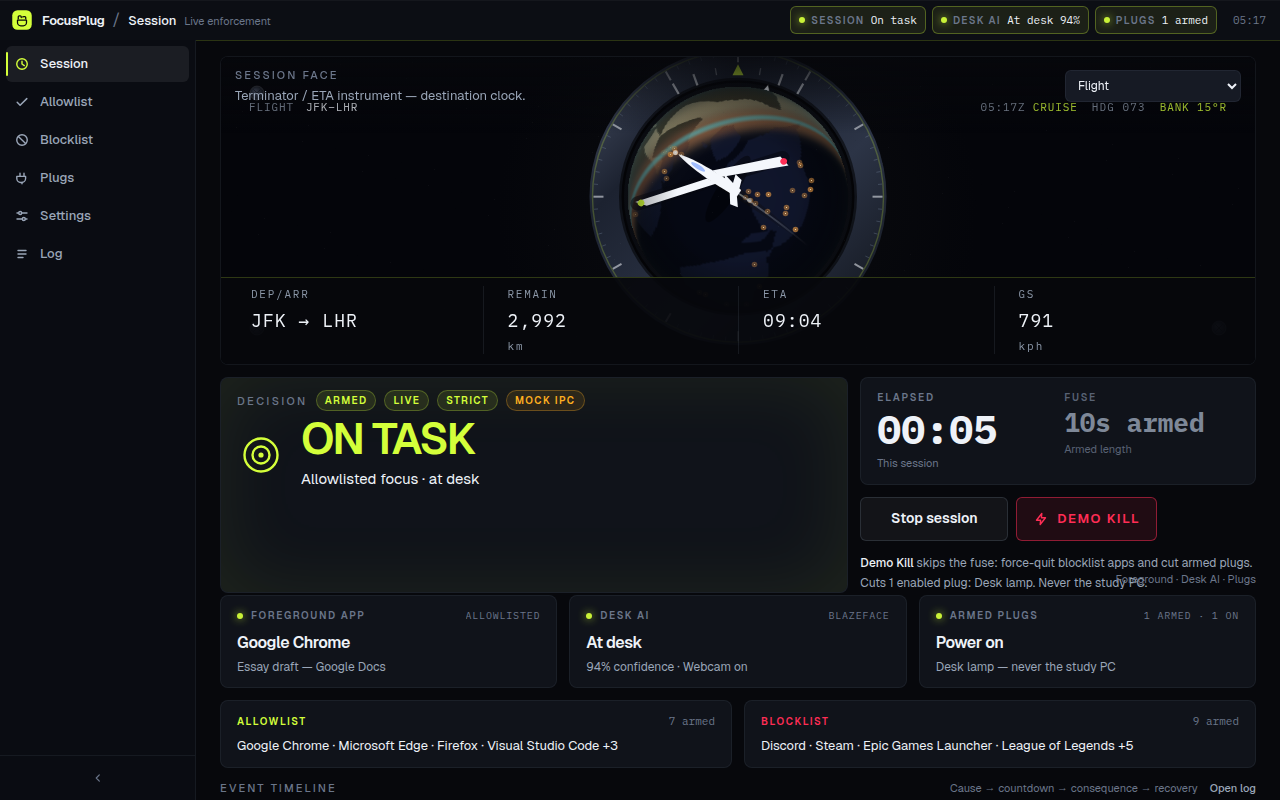
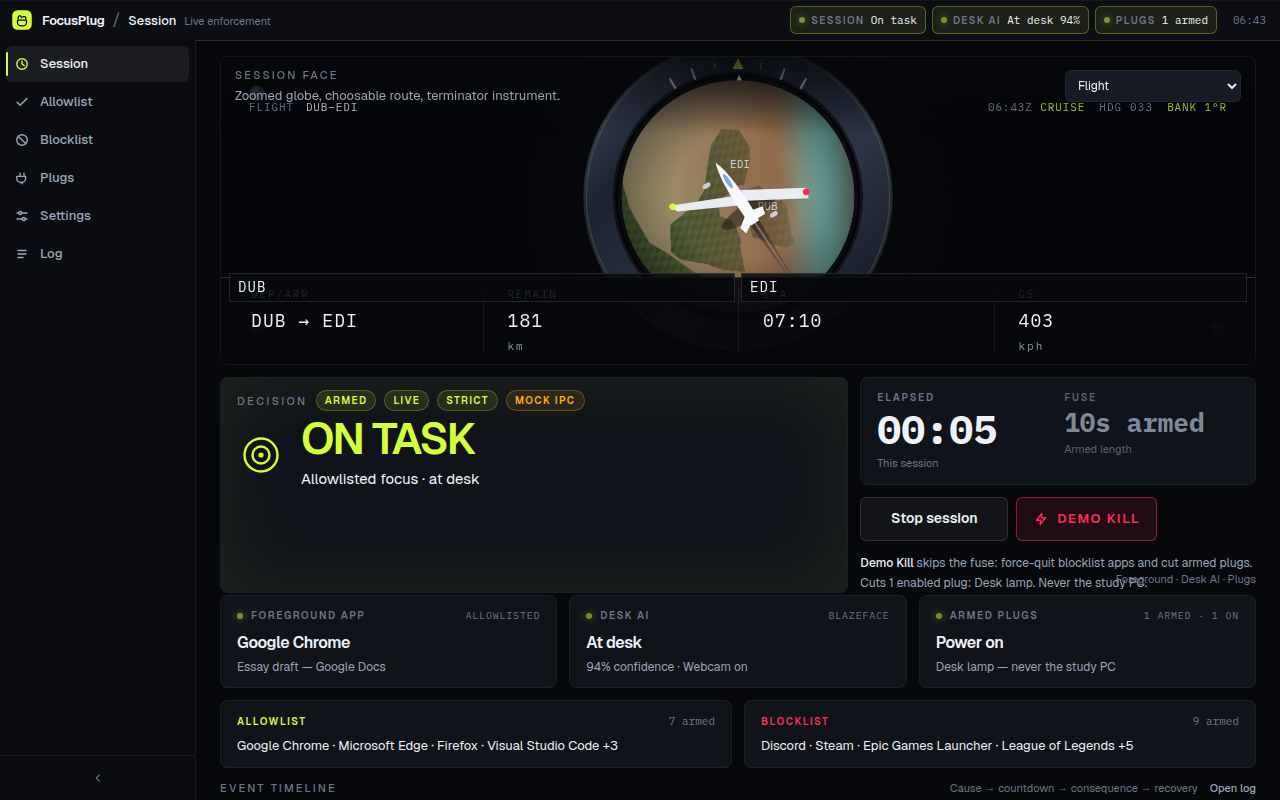
faces: keep Flight orbit basis and split British Isles
Roll the camera around the look axis instead of rebuilding right/up from world-up, so a sit actually rotates the hop. Ireland and Britain are separate rings so the Irish Sea stays water.

diff --git a/src/renderer/src/features/faces/flight/draw.ts b/src/renderer/src/features/faces/flight/draw.ts
@@ -269,16 +269,16 @@ function drawAircraft(
   if (!here.visible) return;
   const heading = screenHeading(model, cx, cy, radius);
   const pitch = degToRad(phasePitchDeg(model.phase));
-  const wings = wingAttitude(model.bank, 30);
-  const s = (model.phase === "climb" ? 1.28 : model.phase === "descent" ? 0.92 : 1) * 2.15;
+  const wings = wingAttitude(model.bank, 34);
+  const s = (model.phase === "climb" ? 1.22 : model.phase === "descent" ? 0.94 : 1) * 1.85;
 
   ctx.save();
-  ctx.translate(here.x + 9 + wings.drop * 0.15, here.y + 11);
+  ctx.translate(here.x + 8 + wings.drop * 0.12, here.y + 10);
   ctx.rotate(heading);
-  ctx.scale(s, s * 0.72);
-  ctx.fillStyle = "rgba(0,0,0,0.42)";
+  ctx.scale(s, s * 0.78);
+  ctx.fillStyle = "rgba(0,0,0,0.4)";
   ctx.beginPath();
-  ctx.ellipse(0, 2, 20, 7, 0, 0, Math.PI * 2);
+  ctx.ellipse(0, 3, 18, 6, 0, 0, Math.PI * 2);
   ctx.fill();
   ctx.restore();
 
@@ -288,70 +288,71 @@ function drawAircraft(
   ctx.rotate(pitch);
   ctx.scale(s, s);
 
-  ctx.strokeStyle = "rgba(6, 8, 14, 0.55)";
-  ctx.lineWidth = 7.2;
-  ctx.lineCap = "round";
+  ctx.fillStyle = "#e8edf4";
   ctx.beginPath();
   ctx.moveTo(-wings.leftSpan, wings.leftY);
-  ctx.lineTo(wings.rightSpan, wings.rightY);
-  ctx.stroke();
-
-  ctx.fillStyle = "#f4f7fc";
-  ctx.beginPath();
-  ctx.moveTo(-wings.leftSpan, wings.leftY - 1.4);
-  ctx.lineTo(-2.4, -1.8);
-  ctx.lineTo(-2.0, 3.6);
-  ctx.lineTo(-wings.leftSpan + 1.6, wings.leftY + 4.6);
+  ctx.lineTo(-3.2, -2.2);
+  ctx.lineTo(-2.4, 4.2);
+  ctx.lineTo(-wings.leftSpan + 2.4, wings.leftY + 5.2);
   ctx.closePath();
   ctx.fill();
   ctx.beginPath();
-  ctx.moveTo(wings.rightSpan, wings.rightY - 1.4);
-  ctx.lineTo(2.4, -1.8);
-  ctx.lineTo(2.0, 3.6);
-  ctx.lineTo(wings.rightSpan - 1.6, wings.rightY + 4.6);
+  ctx.moveTo(wings.rightSpan, wings.rightY);
+  ctx.lineTo(3.2, -2.2);
+  ctx.lineTo(2.4, 4.2);
+  ctx.lineTo(wings.rightSpan - 2.4, wings.rightY + 5.2);
+  ctx.closePath();
+  ctx.fill();
+
+  ctx.fillStyle = "#f7f9fc";
+  ctx.beginPath();
+  ctx.moveTo(0, -22);
+  ctx.bezierCurveTo(3.4, -14, 3.6, 6, 2.6, 17);
+  ctx.lineTo(-2.6, 17);
+  ctx.bezierCurveTo(-3.6, 6, -3.4, -14, 0, -22);
+  ctx.fill();
+
+  ctx.fillStyle = "#c5ccd6";
+  ctx.beginPath();
+  ctx.ellipse(-11, wings.leftY + 2.2, 2.4, 1.3, 0, 0, Math.PI * 2);
+  ctx.ellipse(11, wings.rightY + 2.2, 2.4, 1.3, 0, 0, Math.PI * 2);
+  ctx.fill();
+
+  ctx.fillStyle = "#f7f9fc";
+  ctx.beginPath();
+  ctx.moveTo(-1.4, 10);
+  ctx.lineTo(-8.2, 13.2 + wings.drop * 0.1);
+  ctx.lineTo(-7.2, 17.4 + wings.drop * 0.1);
+  ctx.lineTo(-1.1, 15.6);
+  ctx.closePath();
+  ctx.moveTo(1.4, 10);
+  ctx.lineTo(8.2, 13.2 - wings.drop * 0.1);
+  ctx.lineTo(7.2, 17.4 - wings.drop * 0.1);
+  ctx.lineTo(1.1, 15.6);
   ctx.closePath();
   ctx.fill();
 
   ctx.beginPath();
-  ctx.moveTo(0, -21);
-  ctx.bezierCurveTo(2.8, -14, 3.1, 8, 2.0, 16);
-  ctx.lineTo(-2.0, 16);
-  ctx.bezierCurveTo(-3.1, 8, -2.8, -14, 0, -21);
-  ctx.fill();
-
-  ctx.beginPath();
-  ctx.moveTo(-1.2, 11);
-  ctx.lineTo(-7.2, 12.2 + wings.drop * 0.12);
-  ctx.lineTo(-6.4, 16.4 + wings.drop * 0.12);
-  ctx.lineTo(-1.0, 15.2);
-  ctx.closePath();
-  ctx.moveTo(1.2, 11);
-  ctx.lineTo(7.2, 12.2 - wings.drop * 0.12);
-  ctx.lineTo(6.4, 16.4 - wings.drop * 0.12);
-  ctx.lineTo(1.0, 15.2);
-  ctx.closePath();
-  ctx.fill();
-
-  ctx.beginPath();
-  ctx.moveTo(0.2, 8);
-  ctx.lineTo(2.4 + wings.drop * 0.08, 4);
-  ctx.lineTo(1.4, 16);
-  ctx.lineTo(-1.2, 15.4);
+  ctx.moveTo(-1.4, 8);
+  ctx.lineTo(0, 4);
+  ctx.lineTo(1.4, 8);
+  ctx.lineTo(1.2, 16);
+  ctx.lineTo(-1.2, 16);
   ctx.closePath();
   ctx.fill();
 
   ctx.fillStyle = "#d4ff3a";
   ctx.beginPath();
-  ctx.arc(-wings.leftSpan + 1.2, wings.leftY + 1.4, 1.7, 0, Math.PI * 2);
+  ctx.arc(-wings.leftSpan + 1.6, wings.leftY + 1.6, 1.8, 0, Math.PI * 2);
   ctx.fill();
   ctx.fillStyle = "#ff2d55";
   ctx.beginPath();
-  ctx.arc(wings.rightSpan - 1.2, wings.rightY + 1.4, 1.7, 0, Math.PI * 2);
+  ctx.arc(wings.rightSpan - 1.6, wings.rightY + 1.6, 1.8, 0, Math.PI * 2);
   ctx.fill();
 
-  ctx.fillStyle = "rgba(122,162,255,0.7)";
+  ctx.fillStyle = "rgba(90, 140, 220, 0.75)";
   ctx.beginPath();
-  ctx.ellipse(0, -9, 1.15, 4.2, 0, 0, Math.PI * 2);
+  ctx.ellipse(0, -10, 1.2, 4.6, 0, 0, Math.PI * 2);
   ctx.fill();
   ctx.restore();
 }

diff --git a/src/renderer/src/features/faces/flight/globe.ts b/src/renderer/src/features/faces/flight/globe.ts
@@ -64,17 +64,17 @@ function shadePixel(
   const dusk = duskAmount(intensity);
 
   const grain = terrainGrain(geo.lat, geo.lon);
-  const oceanDay = [214, 196, 148] as const;
-  const landDay = [78 + grain * 22, 92 + grain * 18, 48 + grain * 8] as const;
-  const oceanNight = [5, 8, 20] as const;
-  const landNight = [14, 24, 40] as const;
+  const oceanDay = [196, 178, 132] as const;
+  const landDay = [64 + grain * 28, 88 + grain * 24, 42 + grain * 10] as const;
+  const oceanNight = [4, 7, 16] as const;
+  const landNight = [18 + grain * 10, 30 + grain * 12, 52 + grain * 8] as const;
   const twilightCyan = [92, 226, 236] as const;
   const atm = [110, 196, 220] as const;
 
-  const coast = land > 0.12 && land < 0.88 ? 1 : 0;
-  const dayR = mix(oceanDay[0], landDay[0], land) - coast * 18;
-  const dayG = mix(oceanDay[1], landDay[1], land) - coast * 10;
-  const dayB = mix(oceanDay[2], landDay[2], land) - coast * 6;
+  const coast = land > 0.1 && land < 0.9 ? 1 : 0;
+  const dayR = mix(oceanDay[0], landDay[0], land) - coast * 26;
+  const dayG = mix(oceanDay[1], landDay[1], land) - coast * 16;
+  const dayB = mix(oceanDay[2], landDay[2], land) - coast * 10;
   const nightR = mix(oceanNight[0], landNight[0], land);
   const nightG = mix(oceanNight[1], landNight[1], land);
   const nightB = mix(oceanNight[2], landNight[2], land);
@@ -140,7 +140,7 @@ export function rasterGlobe(model: FlightModel, size: number): ImageData {
   const fwd = model.cameraForward;
   const sun = model.sun;
   const zoom = Math.max(1, model.cameraZoom);
-  const landMode: "grid" | "coast" = zoom >= 2.5 ? "coast" : "grid";
+  const landMode: "grid" | "coast" = "coast";
 
   for (const s of samples) {
     const vx = s.vx / zoom;

diff --git a/src/renderer/src/features/faces/flight/model.ts b/src/renderer/src/features/faces/flight/model.ts
@@ -11,14 +11,11 @@ import {
   haversineKm,
   initialBearingDeg,
   latLonToUnit,
-  normalize,
   orbitAngleRad,
   orthonormalBasis,
   remainingKm,
   rotateAround,
   routeCameraZoom,
-  scale,
-  add,
   subsolar,
   sunDir,
   type FlightPhase,
@@ -103,12 +100,8 @@ export function buildFlightModel(clock: FlightClock, idleOverride?: number): Fli
   const orbit = orbitAngleRad(now, idleOverride, frozen || complete);
   const zoom = routeCameraZoom(totalKm, complete);
   const base = orthonormalBasis(lookRoot);
-  const spunRight = rotateAround(base.right, lookRoot, orbit);
-  const spunUp = rotateAround(base.up, lookRoot, orbit);
-  const lean = (complete ? 0.025 : 0.04) / zoom;
-  const lift = (complete ? 0.02 : 0.035) / zoom;
-  const cameraForward = normalize(add(add(lookRoot, scale(spunRight, lean)), scale(spunUp, lift)));
-  const cam = orthonormalBasis(cameraForward);
+  const cameraRight = rotateAround(base.right, lookRoot, orbit);
+  const cameraUp = rotateAround(base.up, lookRoot, orbit);
 
   return {
     now,
@@ -133,9 +126,9 @@ export function buildFlightModel(clock: FlightClock, idleOverride?: number): Fli
     sunLon: sun.lon,
     sun: sunVec,
     contrail: seedContrail(dep, arr, progress, remaining, estimateMinutes),
-    cameraForward: cam.forward,
-    cameraRight: cam.right,
-    cameraUp: cam.up,
+    cameraForward: lookRoot,
+    cameraRight,
+    cameraUp,
     cameraZoom: zoom,
     orbit,
   };

diff --git a/src/renderer/src/features/faces/flight/model.test.ts b/src/renderer/src/features/faces/flight/model.test.ts
@@ -104,6 +104,29 @@ describe("flight model", () => {
     expect(model.planeLat).toBeCloseTo(DEFAULT_ARR.lat, 3);
   });
 
+  it("swings the origin around the aircraft when the globe orbits", () => {
+    const clock = {
+      remaining: 25 * 60,
+      estimateMinutes: 50,
+      now: NOW,
+      paused: false,
+      complete: false,
+      reducedMotion: false,
+    };
+    const a = buildFlightModel(clock, 0.15);
+    const b = buildFlightModel(clock, 1.85);
+    const planeA = projectWorld(latLonToUnit(a.planeLat, a.planeLon), a, 200, 200, 90);
+    const planeB = projectWorld(latLonToUnit(b.planeLat, b.planeLon), b, 200, 200, 90);
+    const depA = projectWorld(latLonToUnit(a.dep.lat, a.dep.lon), a, 200, 200, 90);
+    const depB = projectWorld(latLonToUnit(b.dep.lat, b.dep.lon), b, 200, 200, 90);
+    const angA = Math.atan2(depA.x - planeA.x, planeA.y - depA.y);
+    const angB = Math.atan2(depB.x - planeB.x, planeB.y - depB.y);
+    let delta = ((angB - angA) * 180) / Math.PI;
+    while (delta > 180) delta -= 360;
+    while (delta < -180) delta += 360;
+    expect(Math.abs(delta)).toBeGreaterThan(60);
+  });
+
   it("lists about sixty city lights", () => {
     expect(CITY_LIGHTS.length).toBeGreaterThanOrEqual(60);
     expect(CITY_LIGHTS.length).toBeLessThan(80);

diff --git a/src/renderer/src/features/faces/flight/continents.ts b/src/renderer/src/features/faces/flight/continents.ts
@@ -112,15 +112,17 @@ const RINGS: Ring[][] = [
     { lon: -10.2, lat: 51.57 },
     { lon: -10.48, lat: 51.9 },
   ],
-  // Great Britain
+  // Great Britain — west coast bites in so the Irish Sea stays a channel
   [
     { lon: -5.7, lat: 50.05 },
     { lon: -5.54, lat: 50.34 },
     { lon: -5.15, lat: 51.68 },
     { lon: -5.3, lat: 51.87 },
     { lon: -4.78, lat: 52.8 },
-    { lon: -4.5, lat: 53.35 },
-    { lon: -4.85, lat: 53.42 },
+    { lon: -4.2, lat: 53.2 },
+    { lon: -3.15, lat: 53.4 },
+    { lon: -3.0, lat: 54.05 },
+    { lon: -3.4, lat: 54.55 },
     { lon: -4.3, lat: 54.85 },
     { lon: -4.78, lat: 55.25 },
     { lon: -5.6, lat: 55.3 },
@@ -356,7 +358,7 @@ function inBritishIsles(lat: number, lon: number): boolean {
 export function landCoverage(lat: number, lon: number, mode: "grid" | "coast" = "grid"): number {
   if (mode === "coast" || inBritishIsles(lat, lon)) {
     const here = landFromRings(lat, lon);
-    const d = 0.07;
+    const d = 0.035;
     const edge =
       (landFromRings(lat, lon + d) +
         landFromRings(lat, lon - d) +

diff --git a/src/renderer/src/features/faces/flight/math.ts b/src/renderer/src/features/faces/flight/math.ts
@@ -7,9 +7,9 @@ export const TWILIGHT_LO = -0.045;
 export const TWILIGHT_HI = 0.07;
 /** Slow continuous orbit — one revolution every ~2 minutes. */
 export const ORBIT_RAD_PER_SEC = 0.052;
-export const MIN_ROUTE_ZOOM = 2.45;
-export const MAX_ROUTE_ZOOM = 15;
-export const COMPLETE_MIN_ZOOM = 1.8;
+export const MIN_ROUTE_ZOOM = 2.6;
+export const MAX_ROUTE_ZOOM = 8.2;
+export const COMPLETE_MIN_ZOOM = 1.75;
 
 export type Vec3 = readonly [number, number, number];
 
@@ -266,7 +266,7 @@ export function routeCameraZoom(totalKm: number, complete: boolean): number {
   if (!Number.isFinite(totalKm)) {
     throw new Error("routeCameraZoom requires a finite distance");
   }
-  const viewKm = Math.max(Math.abs(totalKm) * 1.7, 480);
+  const viewKm = Math.max(Math.abs(totalKm) * 4.2, 1550);
   const raw = clamp((2 * EARTH_RADIUS_KM) / viewKm, MIN_ROUTE_ZOOM, MAX_ROUTE_ZOOM);
   if (complete) {
     return clamp(raw * 0.58, COMPLETE_MIN_ZOOM, 5.2);

diff --git a/src/renderer/src/features/faces/flight/flight.css b/src/renderer/src/features/faces/flight/flight.css
@@ -169,7 +169,25 @@
 }
 
 .fp-flight.is-compact .fp-flight-route.is-face {
-  bottom: 78px;
+  bottom: 62px;
+  left: 8px;
+  right: 8px;
+  gap: 6px;
+}
+
+.fp-flight.is-compact .fp-flight-airport-label,
+.fp-flight.is-compact .fp-flight-airport-btn span,
+.fp-flight.is-compact .fp-flight-route-arrow {
+  display: none;
+}
+
+.fp-flight.is-compact .fp-flight-airport-btn {
+  min-height: 28px;
+  padding: 3px 8px;
+}
+
+.fp-flight.is-compact .fp-flight-airport-btn b {
+  font-size: 14px;
 }
 
 .fp-flight-route.is-settings {

diff --git a/src/renderer/src/features/faces/flight/math.test.ts b/src/renderer/src/features/faces/flight/math.test.ts
@@ -142,7 +142,7 @@ describe("progress, phases, honest strip math", () => {
     const close = routeCameraZoom(shortHop, false);
     const far = routeCameraZoom(longHaul, false);
     expect(shortHop).toBeLessThan(400);
-    expect(close).toBeGreaterThan(8);
+    expect(close).toBeGreaterThan(6);
     expect(far).toBeGreaterThan(2);
     expect(far).toBeLessThan(close);
     expect(routeCameraZoom(shortHop, true)).toBeLessThan(close);

diff --git a/src/renderer/src/features/faces/flight/continents.test.ts b/src/renderer/src/features/faces/flight/continents.test.ts
@@ -11,6 +11,7 @@ describe("continent mask", () => {
   it("keeps Dublin and Edinburgh on land and the Irish Sea as water", () => {
     expect(landCoverage(53.43, -6.25, "coast")).toBeGreaterThan(0.5);
     expect(landCoverage(55.95, -3.19, "coast")).toBeGreaterThan(0.5);
+    expect(landCoverage(53.48, -2.24, "coast")).toBeGreaterThan(0.5);
     expect(landCoverage(53.8, -5.35, "coast")).toBeLessThan(0.35);
   });
 });
